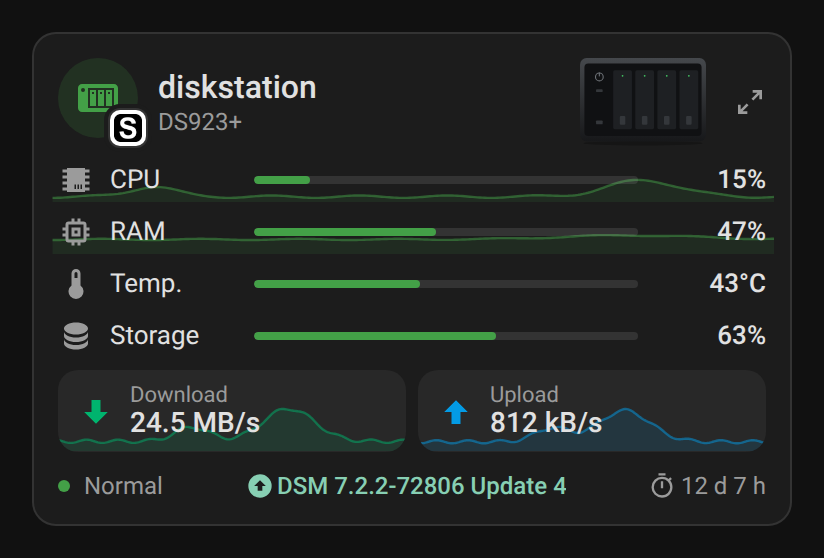
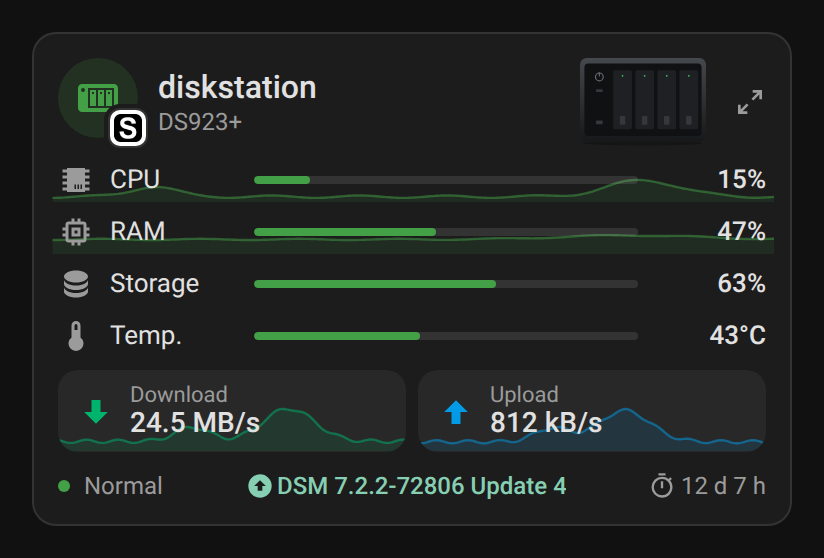
feat(mini): show the temperature after the storage (#76)
Same order as the System Monitor mini card: CPU, RAM, storage, temperature.

diff --git a/src/nas-card.js b/src/nas-card.js
@@ -3179,9 +3179,6 @@ class NasMiniCard extends NasCard {
     const rows = [];
     rows.push(this._metric(sc.cpu_usage, ICONS.cpu, this._t("cpu"), cpu, cpu === null ? "—" : `${Math.round(cpu)}%`, this._level("cpu", cpu), hist));
     rows.push(this._metric(sc.ram_usage, ICONS.ram, this._t("ram"), ram, ram === null ? "—" : `${Math.round(ram)}%`, this._level("ram", ram), hist));
-    rows.push(
-      this._metric(tempId, ICONS.temp, this._t("temperature"), temp, tempText, this._level("temperature", temp))
-    );
     if (c.show_storage !== false) {
       let used = 0;
       let total = 0;
@@ -3200,6 +3197,10 @@ class NasMiniCard extends NasCard {
       if (pct !== null)
         rows.push(this._metric("", ICONS.database, this._t("storage"), pct, `${pct.toFixed(0)}%`, this._level("volume", pct)));
     }
+    // Temperature after the storage, as on the System Monitor mini card.
+    rows.push(
+      this._metric(tempId, ICONS.temp, this._t("temperature"), temp, tempText, this._level("temperature", temp))
+    );
     const foot = [];
     if (status) {
       // The full text in title and aria-label too: on a narrow card, the visible one may be truncated.

diff --git a/CHANGELOG.md b/CHANGELOG.md
@@ -1,5 +1,10 @@
 # Changelog
 
+## 1.21.3 - 2026-11-10
+
+### Changes
+- Mini card: the temperature row now comes after the storage row (CPU, RAM, storage, temperature), as on the System Monitor mini card.
+
 ## 1.21.2 - 2026-11-10
 
 ### Fixes
